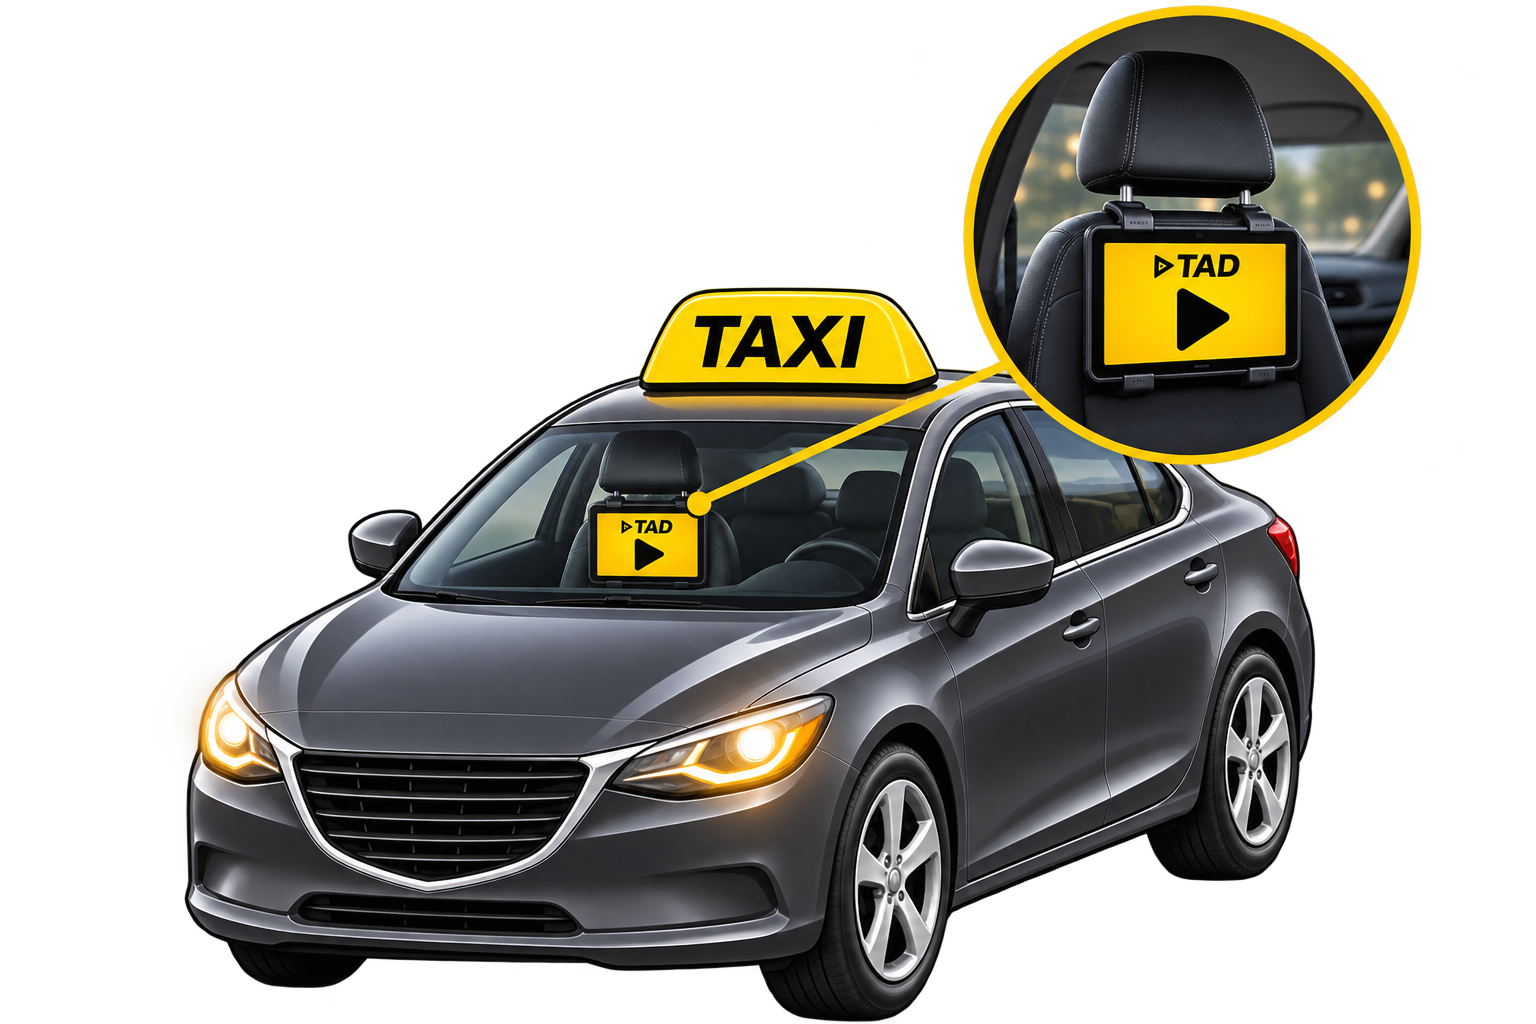
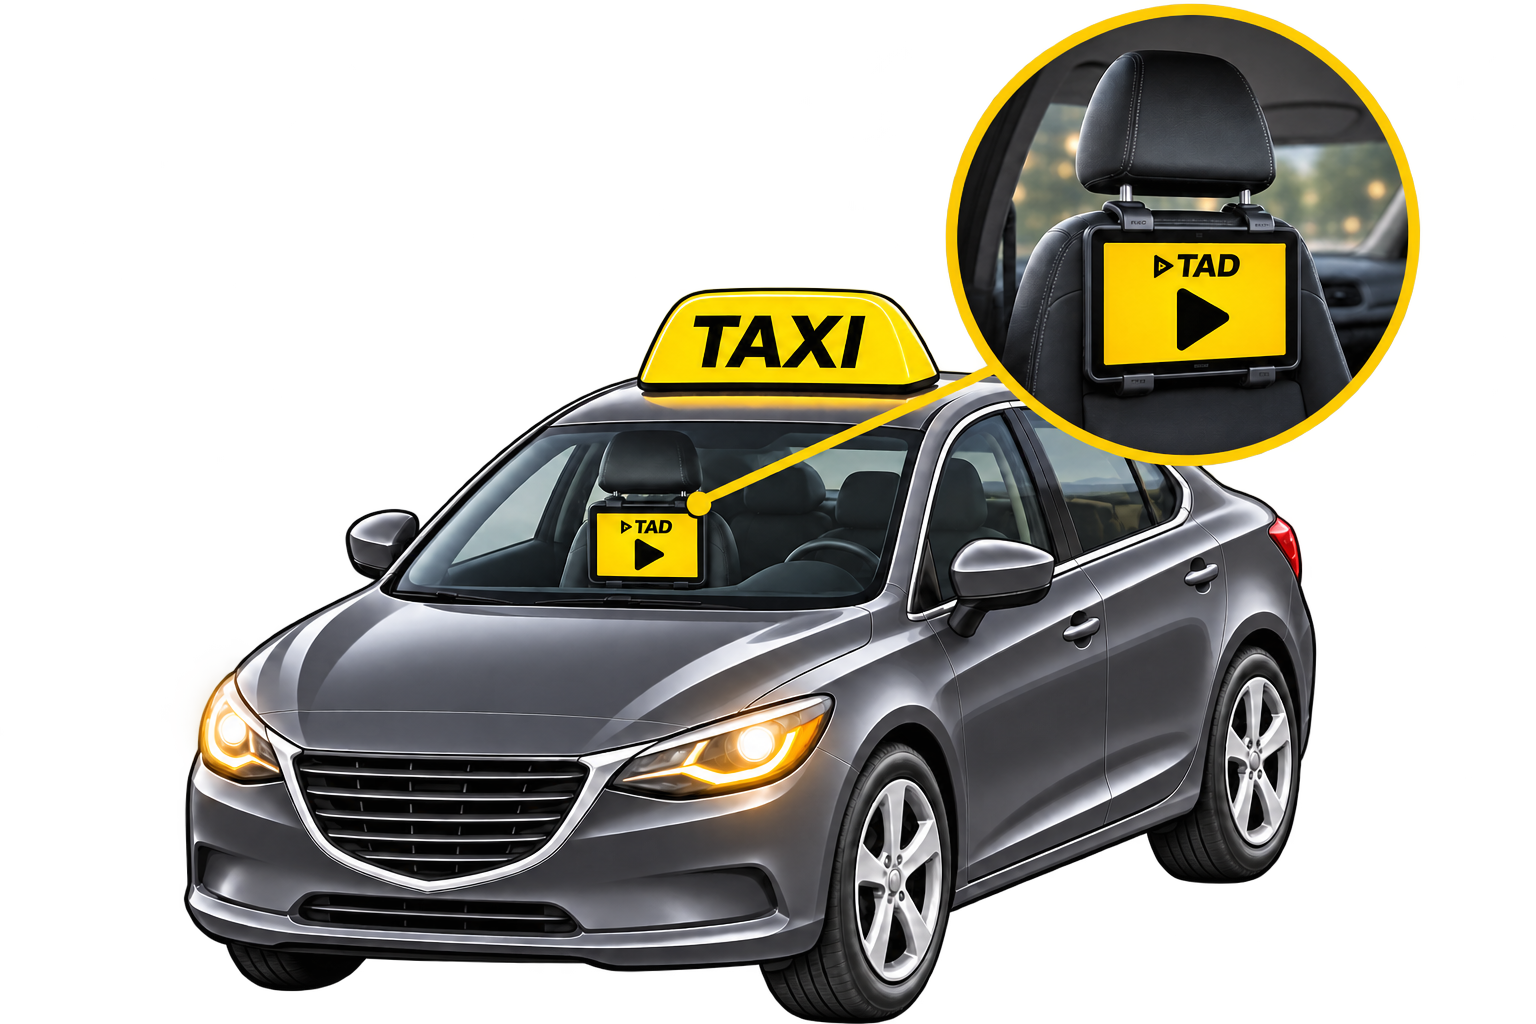
feat(driver): remove taxi image background

diff --git a/apps/driver/components/landing/driver-landing.module.css b/apps/driver/components/landing/driver-landing.module.css
@@ -549,37 +549,17 @@
 }
 
 
-/* Driver taxi hero photograph: preserves the supplied TAD device visual without
-   carrying over the former SVG illustration. */
+/* Transparent taxi cutout: the image blends into the landing surface. */
 .heroVisual {
   position: relative;
   isolation: isolate;
   justify-self: center;
   width: min(100%, 600px);
   margin: 0;
-  padding: 10px 10px 38px;
-  border: 1px solid #ffd40072;
-  border-radius: 30px;
-  background:
-    radial-gradient(circle at 50% 14%, #ffd40029, transparent 42%),
-    linear-gradient(145deg, #26272b, #0b0d10 78%);
-  box-shadow: 0 30px 90px #000b, inset 0 1px 0 #ffffff24;
-}
-.heroVisual::before {
-  content: "";
-  position: absolute;
-  z-index: -1;
-  inset: -24px;
-  border-radius: inherit;
-  background: radial-gradient(ellipse at 50% 42%, #ffd40029, transparent 66%);
-  filter: blur(18px);
-  opacity: .72;
+  padding: 0 0 26px;
 }
 .heroVisualFrame {
-  overflow: hidden;
   aspect-ratio: 3 / 2;
-  border-radius: 22px;
-  background: #1a1a1c;
 }
 .heroVisualFrame :global(img) {
   display: block;
@@ -590,7 +570,7 @@
 .heroVisual figcaption {
   position: absolute;
   right: 22px;
-  bottom: 14px;
+  bottom: 0;
   left: 22px;
   color: #f7efce;
   font-size: 8px;
@@ -598,19 +578,13 @@
   letter-spacing: .15em;
   text-align: center;
 }
-@media (max-width: 800px) {
-  .heroVisual { width: min(100%, 600px); }
-}
 @media (max-width: 580px) {
   .heroVisual {
     width: 100%;
-    padding: 8px 8px 33px;
-    border-radius: 23px;
+    padding-bottom: 24px;
   }
-  .heroVisualFrame { border-radius: 16px; }
   .heroVisual figcaption {
     right: 15px;
-    bottom: 12px;
     left: 15px;
     font-size: 7px;
   }

diff --git a/apps/driver/components/landing/DriverLandingPage.tsx b/apps/driver/components/landing/DriverLandingPage.tsx
@@ -131,7 +131,7 @@ function DriverHeroVisual() {
           width={1536}
           height={1024}
           priority
-          sizes="(max-width: 580px) calc(100vw - 54px), (max-width: 800px) 580px, (max-width: 1100px) 45vw, 580px"
+          sizes="(max-width: 580px) calc(100vw - 36px), (max-width: 800px) 600px, (max-width: 1100px) 45vw, 600px"
         />
       </div>
       <figcaption>PUBLICIDAD DIGITAL A BORDO · TAD</figcaption>
